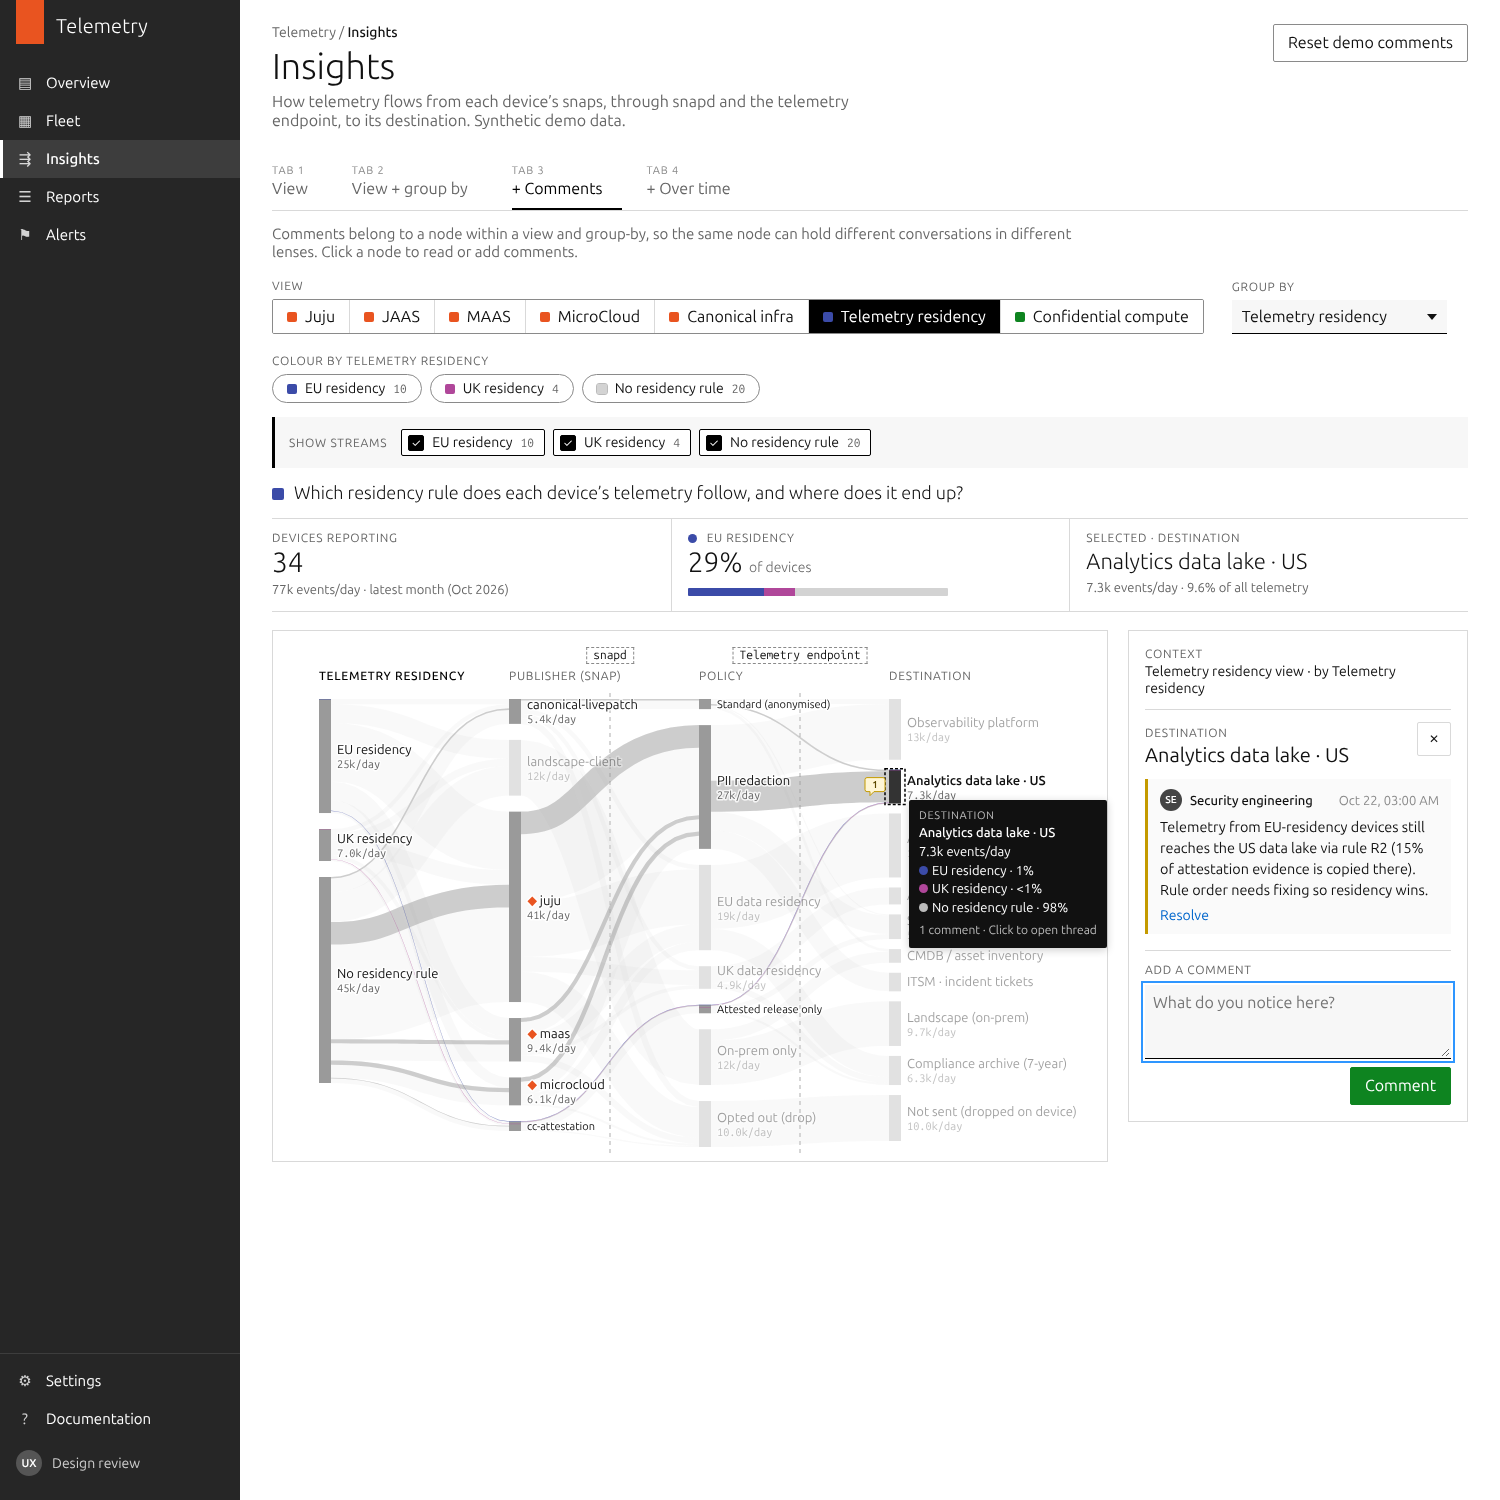
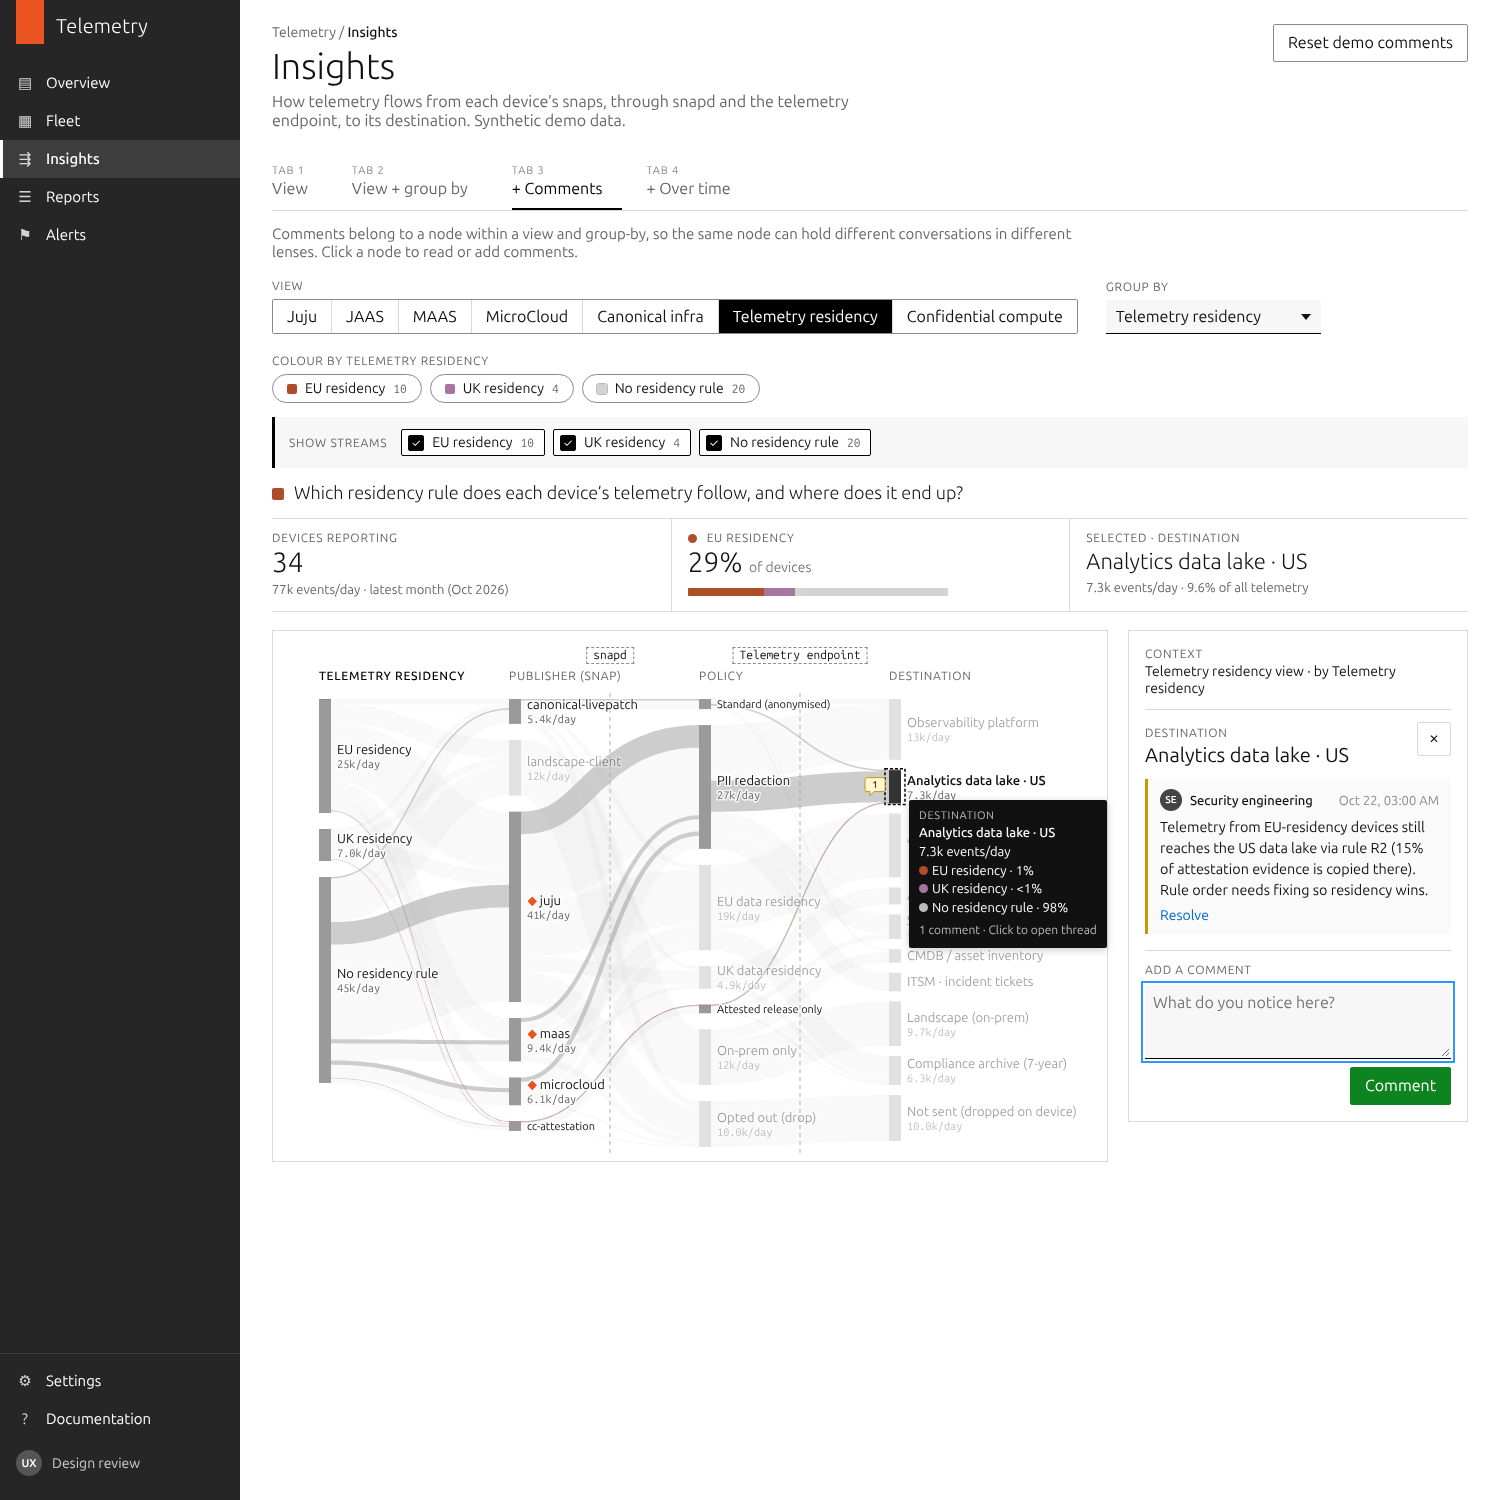
Apply the design team's categorical palette
Views now colour values from the supplied palette, picking the row that
matches the number of coloured values (row 3 for Juju 4.1/3.6/2.9, row 2
for two-value views); neutral values stay grey. Flow opacity is raised
so the muted colours stay distinct, and view buttons drop their swatches
since every view now starts with the same colour.

Claude-Session: https://claude.ai/code/session_0156BKrAD5wHGfcWHmuamSMf

Changed region(s): [[0.184, 0.184, 0.92, 0.2453], [0.46, 0.368, 0.5213, 0.3987]]

diff --git a/js/data.js b/js/data.js
@@ -64,34 +64,52 @@ window.TL = window.TL || {};
   // `color` on a value = how it is painted when its view is active.
   // Values without a colour (e.g. "none") stay neutral grey.
   const GREY = null;
+  // Categorical palette (supplied by design). PALETTE[n] is the ordered set
+  // to use when a view has n coloured values; neutral values stay grey.
+  const PALETTE = {
+    1: ['#AC4E2A'],
+    2: ['#AC4E2A', '#A676A0'],
+    3: ['#AC4E2A', '#6B3264', '#A676A0'],
+    4: ['#AC4E2A', '#A676A0', '#6B3264', '#8C8E5F'],
+    5: ['#AC4E2A', '#6B3264', '#A676A0', '#79331A', '#8C8E5F'],
+    6: ['#AC4E2A', '#A676A0', '#6B3264', '#8C8E5F', '#79331A', '#4C6E87'],
+    7: ['#AC4E2A', '#A676A0', '#6B3264', '#8C8E5F', '#4C6E87', '#79331A', '#63998C'],
+    8: ['#AC4E2A', '#A676A0', '#717236', '#6B3264', '#8C8E5F', '#4C6E87', '#79331A', '#63998C'],
+    12: ['#AC4E2A', '#A676A0', '#6B3264', '#8C8E5F', '#79331A', '#4C6E87', '#63998C', '#717236', '#6587AC', '#BC6D4C', '#564D46', '#997B73']
+  };
+  function paletteFor(n) {
+    if (PALETTE[n]) return PALETTE[n];
+    const k = Object.keys(PALETTE).map(Number).filter(function (x) { return x >= n; })[0] || 12;
+    return PALETTE[k].slice(0, n);
+  }
   const ATTRIBUTES = {
     juju: { label: 'Juju version', short: 'Juju', values: [
-      { id: '4.1', label: 'Juju 4.1', color: '#E95420' },
-      { id: '3.6', label: 'Juju 3.6 LTS', color: '#2F6FB5' },
-      { id: '2.9', label: 'Juju 2.9', color: '#772953' },
+      { id: '4.1', label: 'Juju 4.1', color: true },
+      { id: '3.6', label: 'Juju 3.6 LTS', color: true },
+      { id: '2.9', label: 'Juju 2.9', color: true },
       { id: 'none', label: 'No Juju', color: GREY }] },
     jaas: { label: 'Juju controller', short: 'JAAS', values: [
-      { id: 'jaas', label: 'Managed by JAAS', color: '#E95420' },
-      { id: 'self', label: 'Self-hosted controller', color: '#2F6FB5' },
+      { id: 'jaas', label: 'Managed by JAAS', color: true },
+      { id: 'self', label: 'Self-hosted controller', color: true },
       { id: 'none', label: 'No Juju', color: GREY }] },
     maas: { label: 'MAAS version', short: 'MAAS', values: [
-      { id: '3.6', label: 'MAAS 3.6', color: '#E95420' },
-      { id: '3.5', label: 'MAAS 3.5', color: '#2F6FB5' },
+      { id: '3.6', label: 'MAAS 3.6', color: true },
+      { id: '3.5', label: 'MAAS 3.5', color: true },
       { id: 'none', label: 'Not MAAS-provisioned', color: GREY }] },
     microcloud: { label: 'MicroCloud', short: 'MicroCloud', values: [
-      { id: 'member', label: 'MicroCloud member', color: '#E95420' },
+      { id: 'member', label: 'MicroCloud member', color: true },
       { id: 'none', label: 'Not in a MicroCloud', color: GREY }] },
     stack: { label: 'Canonical infrastructure', short: 'Canonical infra', values: [
-      { id: 'full', label: 'Full Canonical stack', color: '#E95420' },
-      { id: 'partial', label: 'Partial Canonical stack', color: '#F2A07B' },
+      { id: 'full', label: 'Full Canonical stack', color: true },
+      { id: 'partial', label: 'Partial Canonical stack', color: true },
       { id: 'none', label: 'No Canonical infra', color: GREY }] },
     sovereignty: { label: 'Telemetry residency', short: 'Residency', values: [
-      { id: 'eu', label: 'EU residency', color: '#3B4BA8' },
-      { id: 'uk', label: 'UK residency', color: '#B0479A' },
+      { id: 'eu', label: 'EU residency', color: true },
+      { id: 'uk', label: 'UK residency', color: true },
       { id: 'none', label: 'No residency rule', color: GREY }] },
     confidential: { label: 'Confidential compute', short: 'Confidential', values: [
-      { id: 'tdx', label: 'Intel TDX', color: '#0E8420' },
-      { id: 'snp', label: 'AMD SEV-SNP', color: '#1F8A9E' },
+      { id: 'tdx', label: 'Intel TDX', color: true },
+      { id: 'snp', label: 'AMD SEV-SNP', color: true },
       { id: 'none', label: 'Not confidential', color: GREY }] },
     type: { label: 'Device type', short: 'Type', values: [
       { id: 'metal', label: 'Bare-metal server' }, { id: 'vm', label: 'Virtual machine' },
@@ -102,6 +120,14 @@ window.TL = window.TL || {};
     release: { label: 'Ubuntu release', short: 'Release', values: [
       { id: '2204', label: 'Ubuntu 22.04 LTS' }, { id: '2404', label: 'Ubuntu 24.04 LTS' }, { id: '2604', label: 'Ubuntu 26.04 LTS' }] }
   };
+
+  // assign palette colours: values marked `color: true` take the next colour
+  // from the row matching the number of coloured values in that attribute
+  Object.keys(ATTRIBUTES).forEach(function (k) {
+    const coloured = ATTRIBUTES[k].values.filter(function (v) { return v.color; });
+    const row = paletteFor(coloured.length);
+    coloured.forEach(function (v, i) { v.color = row[i]; });
+  });
 
   // ---- Pipeline vocabularies -----------------------------------------
   // Publishers are snaps. Every snap hands its telemetry to snapd on the
@@ -293,7 +319,7 @@ window.TL = window.TL || {};
 
   Object.assign(TL, {
     MONTHS: MONTHS, monthLabel: monthLabel,
-    ATTRIBUTES: ATTRIBUTES, DIMENSIONS: DIMENSIONS, ROUTING: ROUTING,
+    ATTRIBUTES: ATTRIBUTES, DIMENSIONS: DIMENSIONS, ROUTING: ROUTING, PALETTE: PALETTE,
     // shared infrastructure every flow passes through (drawn between columns)
     WAYPOINTS: [
       { after: 'publisher', label: 'snapd', sub: 'one stream per device' },

diff --git a/css/app.css b/css/app.css
@@ -132,10 +132,10 @@ body[data-tab="3"] .insights__body, body[data-tab="4"] .insights__body { grid-te
 .sankey { display: block; overflow: visible; }
 .sk-link__base { fill: var(--link-base); opacity: .32; transition: opacity .15s; }
 .sk-link:hover .sk-link__base { opacity: .6; }
-.sk-link__seg { opacity: .42; }
-.sk-link:hover .sk-link__seg { opacity: .62; }
+.sk-link__seg { opacity: .62; }
+.sk-link:hover .sk-link__seg { opacity: .8; }
 .sk-link.is-focusing .sk-link__base { opacity: .14; }
-.sk-link__focus { opacity: .62; }
+.sk-link__focus { opacity: .75; }
 .sk-link__focus-grey { fill: #8d8d8d; opacity: .4; }
 .sk-node { cursor: pointer; outline: none; }
 .sk-node__hit { fill: transparent; }

diff --git a/js/app.js b/js/app.js
@@ -93,9 +93,8 @@
   function buildViewSwitch() {
     el.viewSwitch.innerHTML = TL.VIEWS.map(function (v) {
       const on = v.id === state.view;
-      const c = TL.ATTRIBUTES[v.attr].values.filter(function (x) { return x.color; })[0].color;
       return '<button type="button" role="radio" aria-checked="' + on + '" class="p-segmented__item' + (on ? ' is-active' : '') + '" data-view="' + v.id + '">' +
-        '<span class="swatch" style="background:' + c + '"></span>' + esc(v.label) + '</button>';
+        esc(v.label) + '</button>';
     }).join('');
   }
   function buildGroupBy() {
